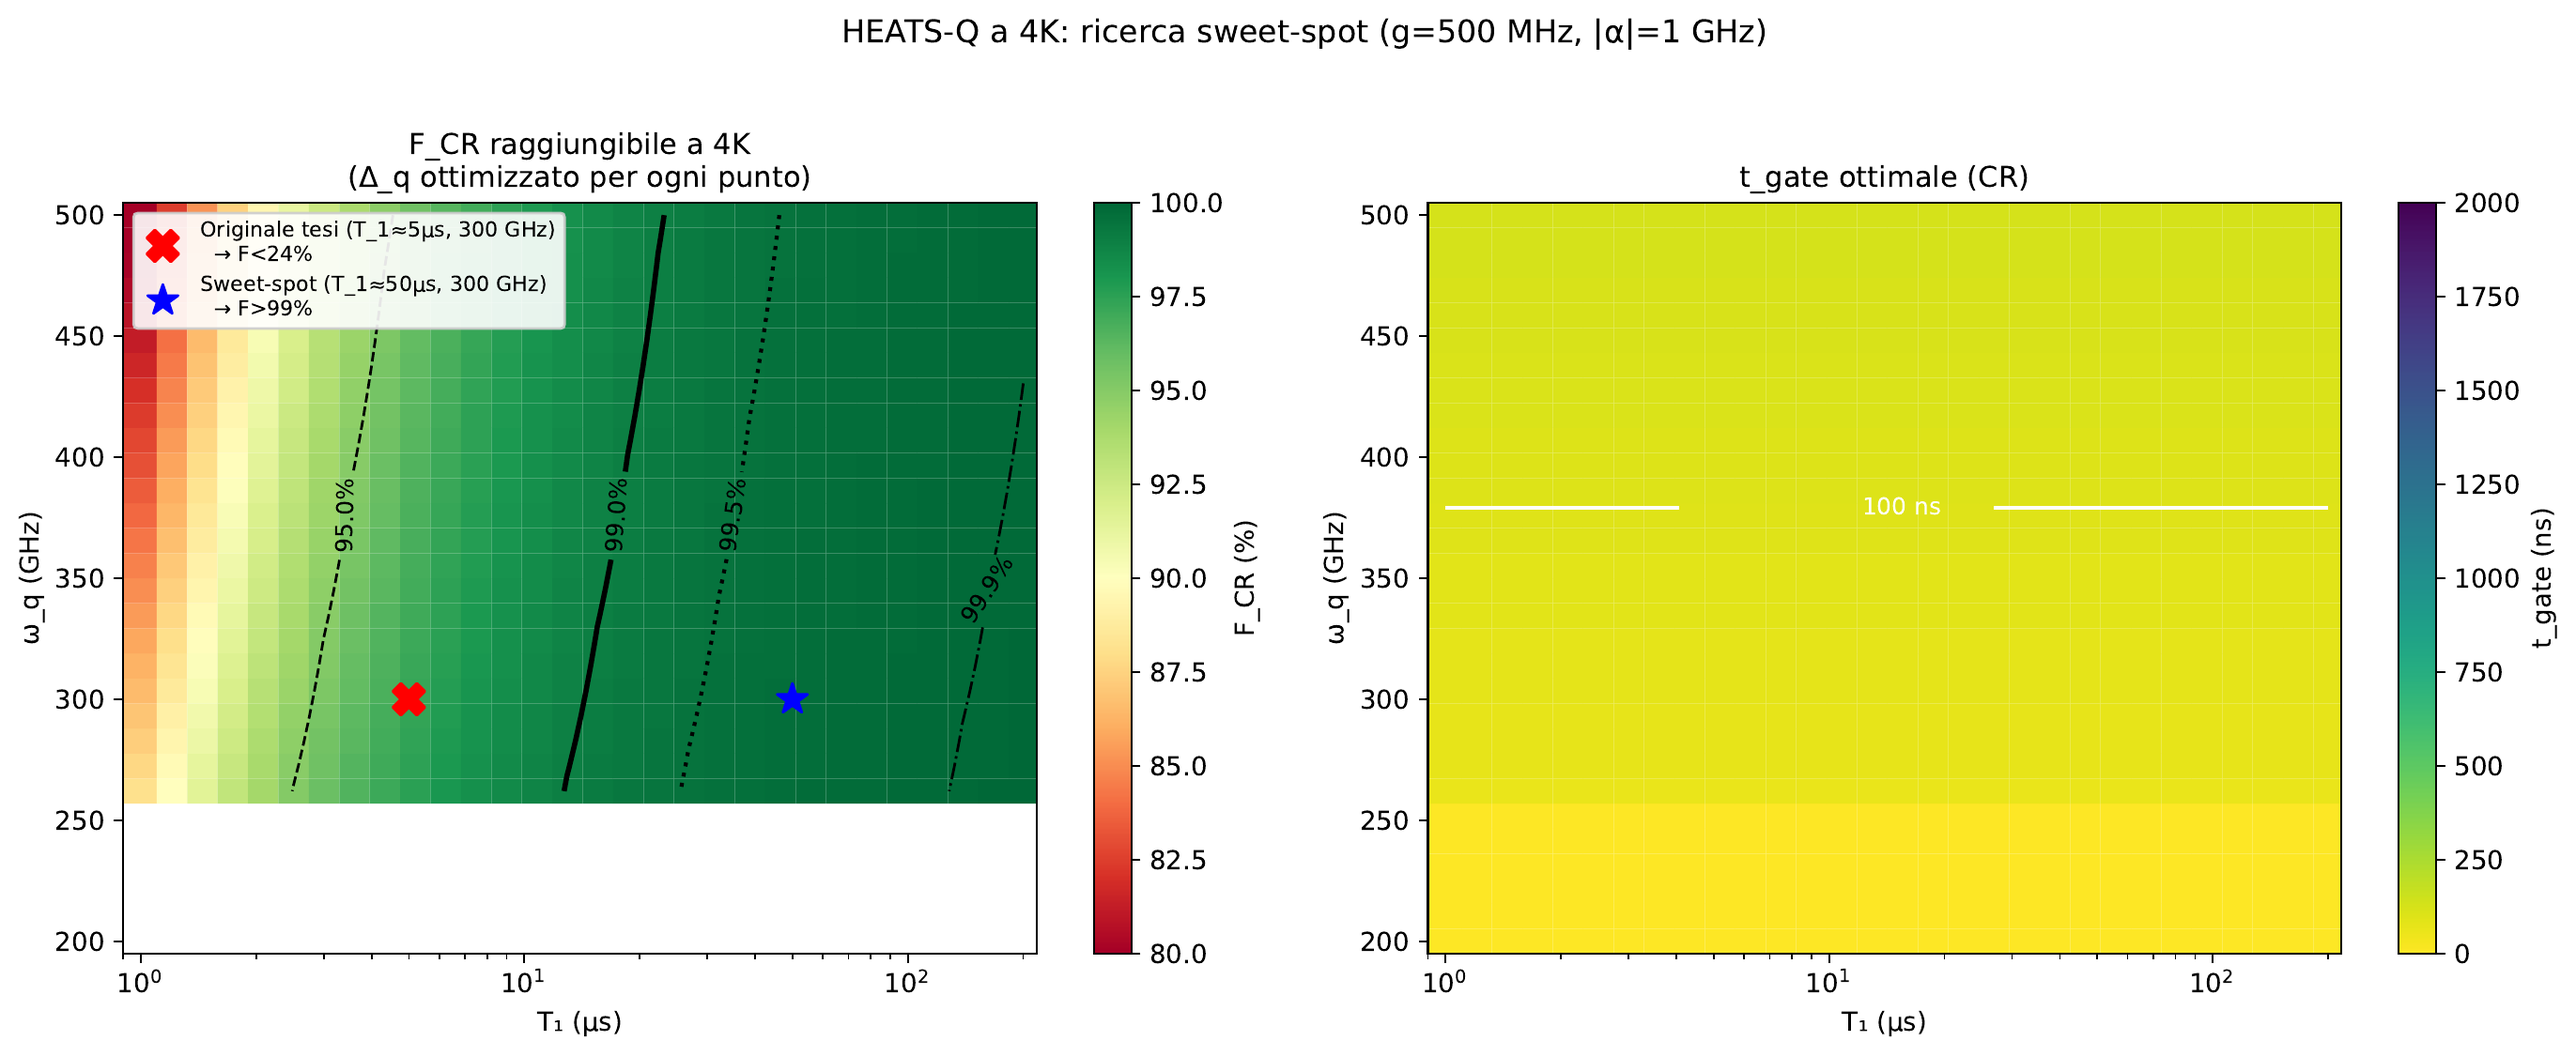
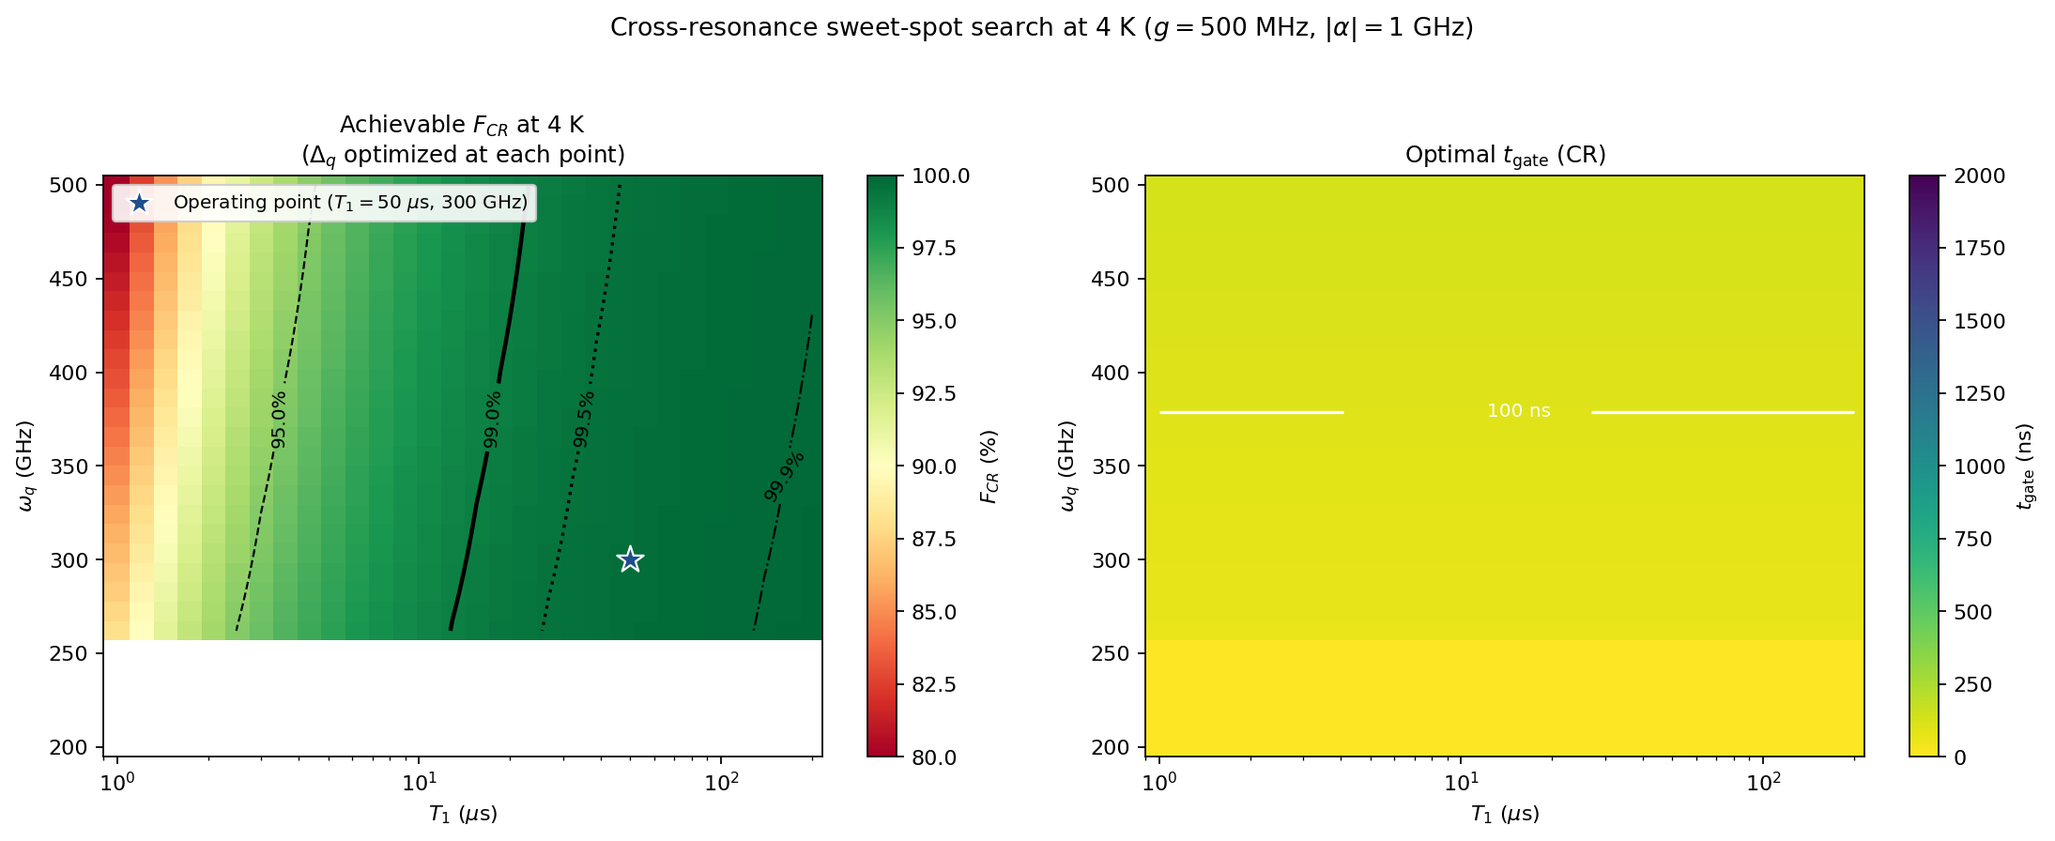
Cap.2: remove all references to 'original manuscript' values
Two erratum-style residuals removed from active text. A dissertation
should present its current values directly, with no reference to
prior drafts or values that were superseded during revision.

1. Figure 2.21 (sweet-spot map at 4 K):
   - Regenerated chapters/qh_figures/cross_resonance_sweetspot_map_4K.png
     (source: qh_hardware/audit_g7/scripts/modulo4q_sweetspot_4K.py).
   - Removed the red X marker labelled 'Originale tesi (T_1=5 us, 300
     GHz) -> F<24%'.
   - Removed 'HEATS-Q' from the figure suptitle (residual that I had
     missed in the earlier 35776db acronym cleanup -- that commit
     scrubbed the .tex sources but did not touch the rendered PNGs).
   - Translated remaining Italian axis/title labels to English.
   - Kept only the blue star at the operating point of the work.
   - Updated the Fig 2.21 caption in quantum_hw.tex to remove the
     phrase 'The red cross marks the original-manuscript point
     (T_1=5 us); the blue star marks the redesigned point (T_1=50
     us) discussed in this section'.

2. Prerequisite P4 paragraph (§ Technological prerequisites):
   - Removed 'This is a redesign of the original Delta_q = 20 GHz
     value, motivated by...'.
   - Restated as 'This stretched-detuning regime keeps the prefactor
     in Eq. (omega_ZX) large'.
   - Removed parenthetical '(innovation point)' (residual pitch-style
     qualifier).

Both edits remove the implicit narrative of 'we used to have wrong
[…]

diff --git a/chapters/quantum_hw.tex b/chapters/quantum_hw.tex
@@ -3269,10 +3269,10 @@ elevated-temperature operating point ($\omega_q\!\sim\!300$~GHz, $T = 4$~K).
     of qubit frequency $\omega_q$ and coherence time $T_1$, with $\Delta_q$
     independently optimized at each point. The bold solid contour at
     $F_{\text{avg}}=99\%$ defines the boundary of the operational sweet spot.
-    The red cross marks the original-manuscript point ($T_1\!=\!5~\mu$s); the
-    blue star marks the redesigned point ($T_1\!=\!50~\mu$s) discussed in
-    this section. The gate time, optimized over $\Delta_q$, is approximately
-    constant ($\sim\!200$~ns) over the parameter range shown (right panel).}
+    The blue star marks the operating point of this work
+    ($T_1\!=\!50~\mu$s, $\omega_q = 300$~GHz). The gate time, optimized over
+    $\Delta_q$, is approximately constant ($\sim\!200$~ns) over the parameter
+    range shown (right panel).}
     \label{fig:sweetspot_4K}
 \end{figure}
 
@@ -3316,10 +3316,10 @@ strategy outlined there, at the centre of the elevated-temperature design.
 
 \paragraph{P4: Stretched-CR detuning regime.}
 Following \S\ref{subsec:dq_optimization}, the optimal qubit--qubit detuning
-is $\Delta_q \approx 600$~MHz (innovation point), corresponding to qubit
+is $\Delta_q \approx 600$~MHz, corresponding to qubit
 frequencies $\omega_{q,1}/2\pi = 300.30$~GHz and
-$\omega_{q,2}/2\pi = 299.70$~GHz. This is a redesign of the original
-$\Delta_q = 20$~GHz value, motivated by the need to keep the prefactor in
+$\omega_{q,2}/2\pi = 299.70$~GHz. This stretched-detuning regime
+keeps the prefactor in
 Eq.~\eqref{eq:omega_ZX} large; spectral addressability with single-qubit
 pulses of duration $\tau\!\sim\!20$~ns is preserved, since $\Delta_q$ exceeds
 the pulse bandwidth $\sim 50$~MHz by an order of magnitude.
